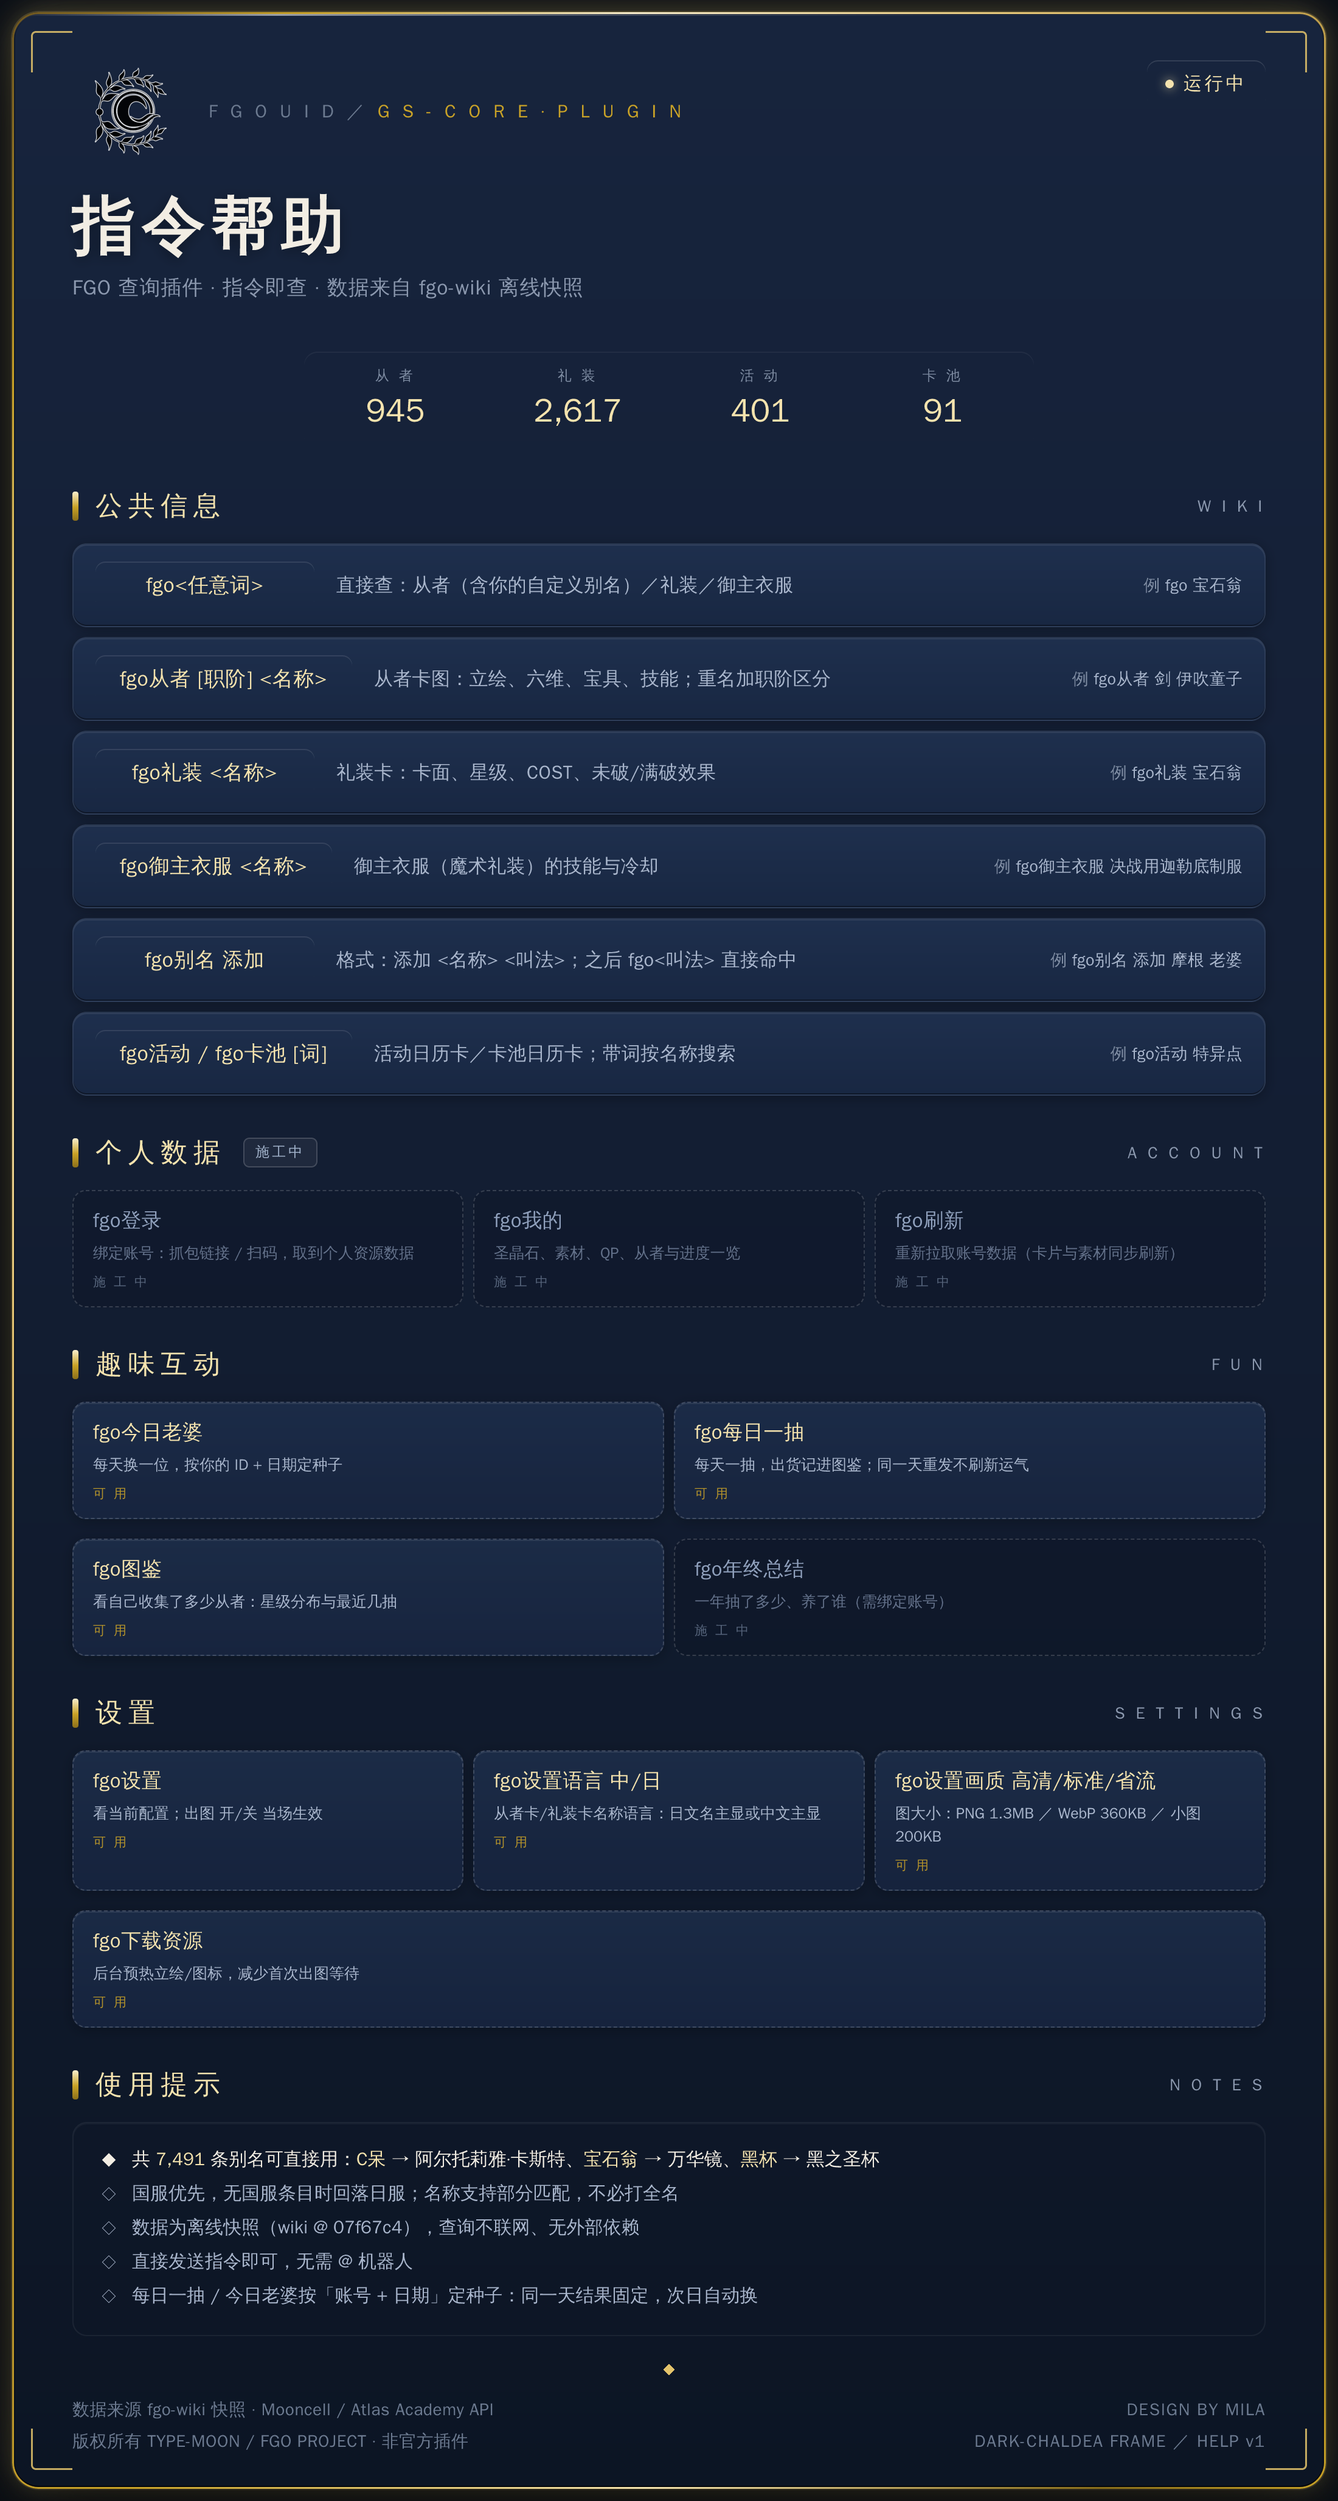
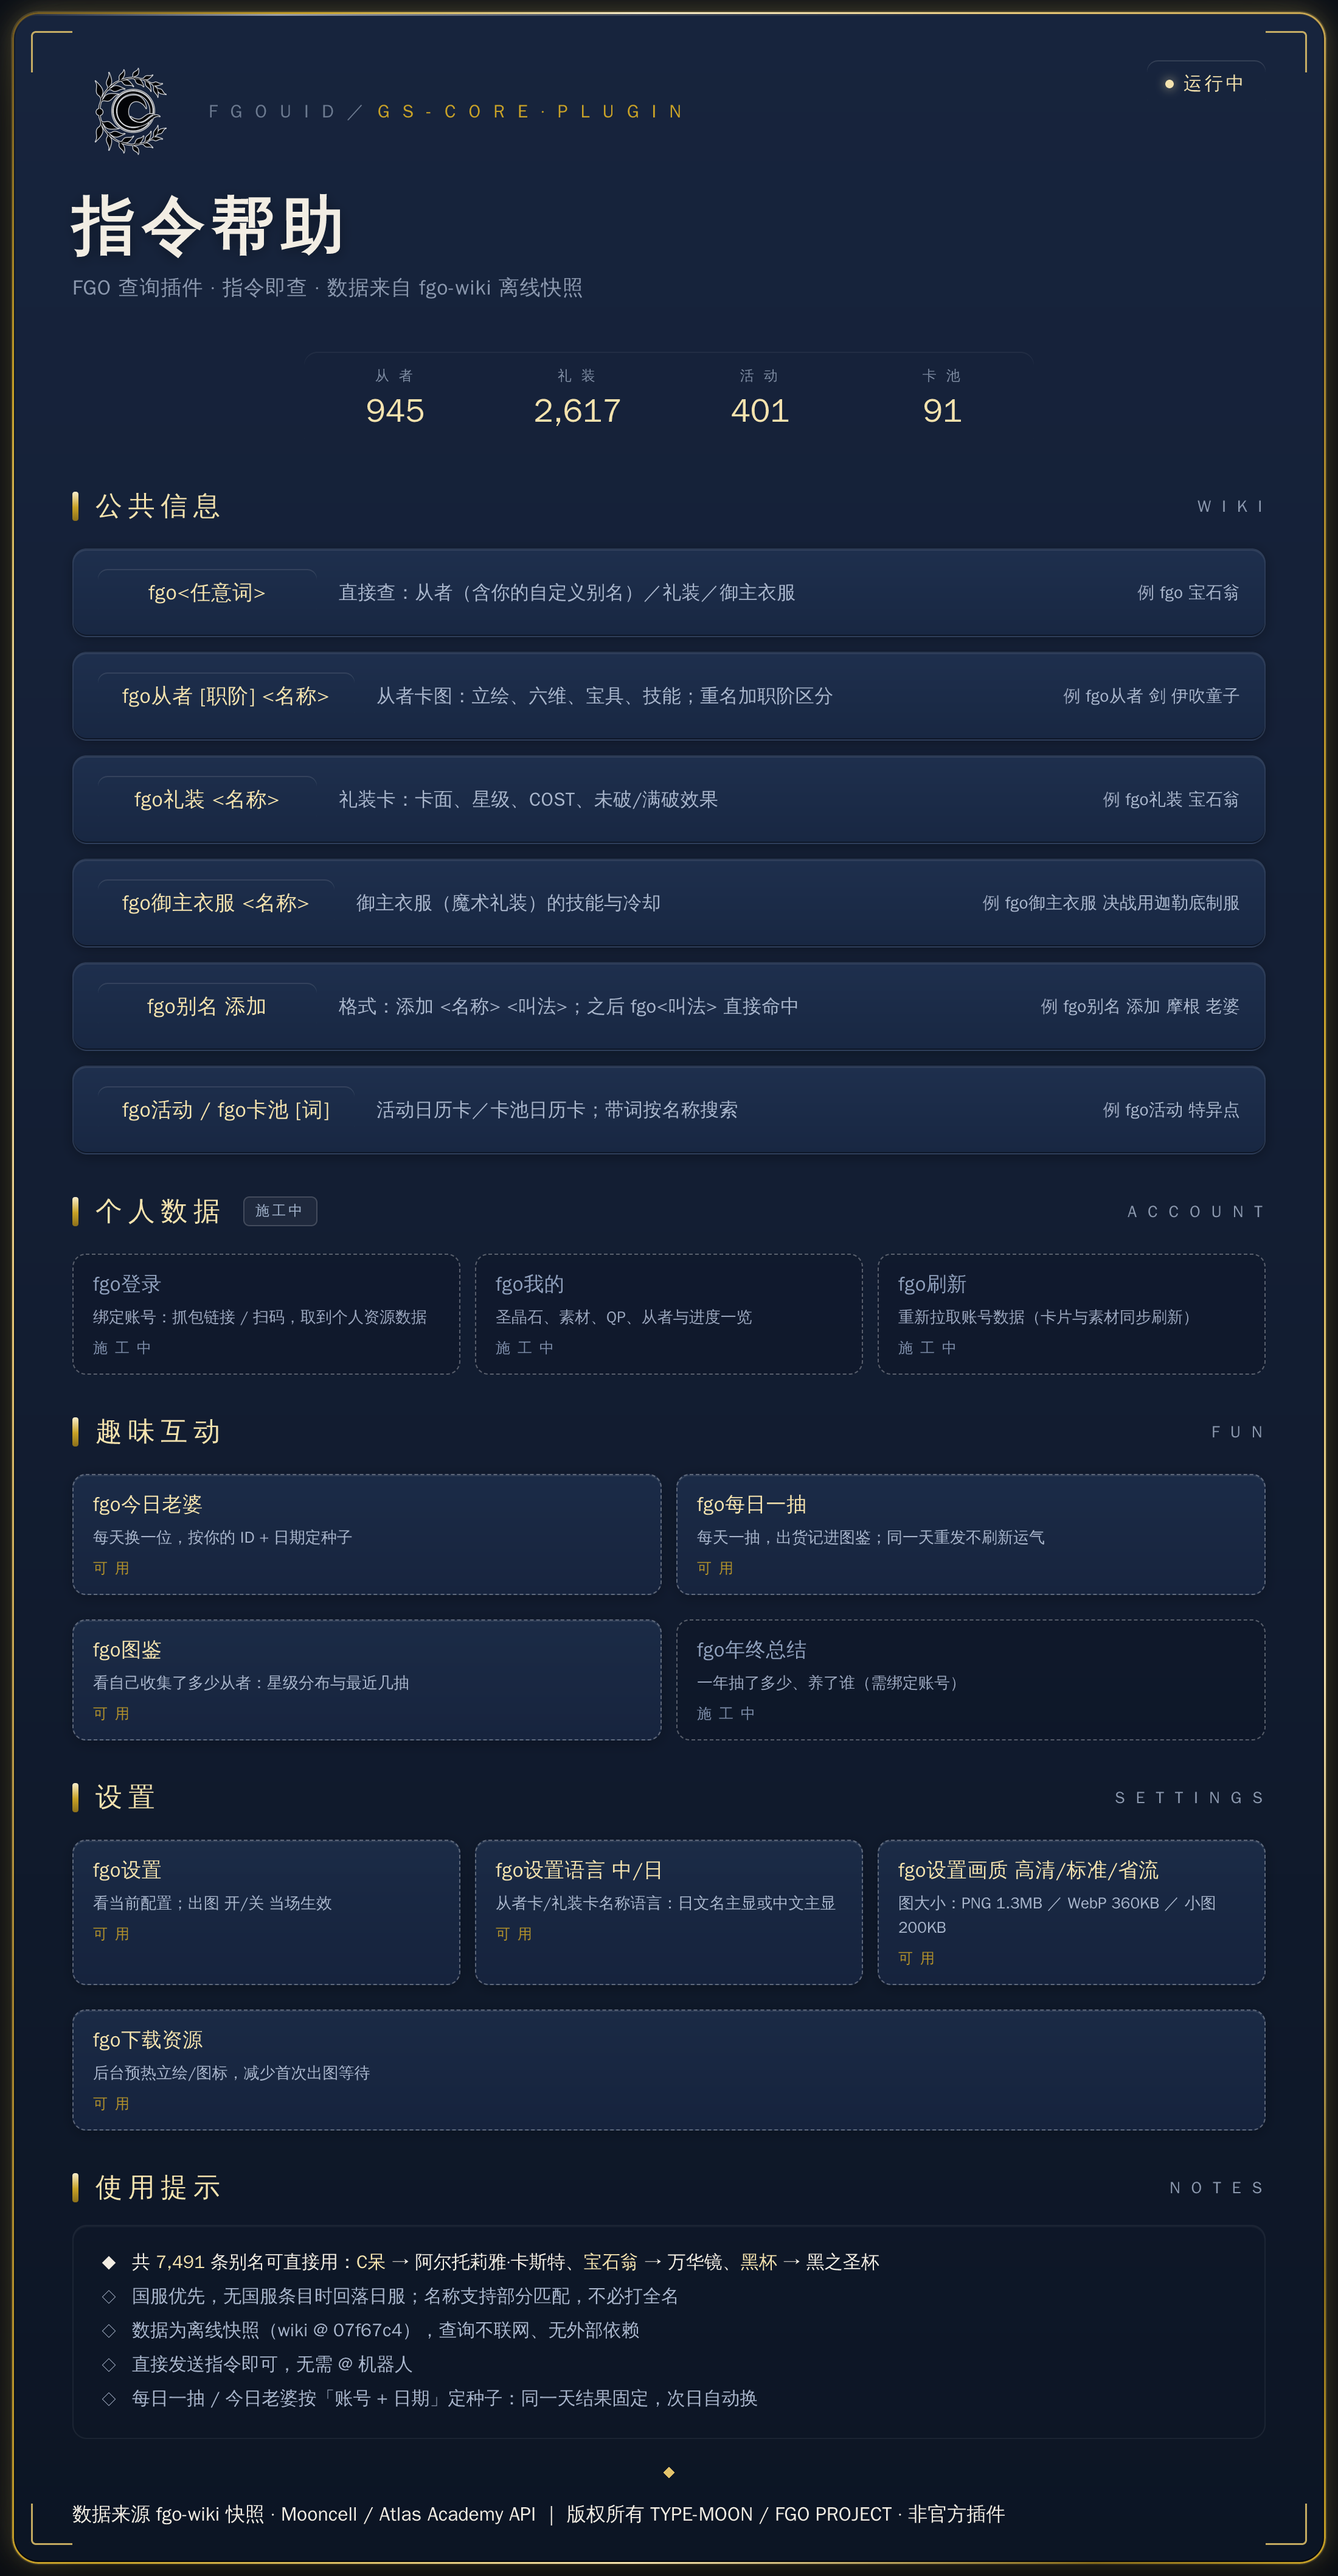
style(card): 按视觉评审意见落地七项调整
- 金色分级：外框光晕双层→单层 0.10、四角 opacity .85→.45、分隔线 0.60/0.78→0.32/0.42
- 技能数值格：底色/字色减重（#C6BDA9→#B8C4DA）、金线只留 Lv.1/6/10 且压到 0.55、格距 4→6
- 技能说明：14.5→15px、色 #E6EAF2、与数值格间距 7→12px
- 灰字提亮放大：示例 13→14px #9AA6BD、卡片说明 12.5→13px、可用/施工中 10.5→12px
- 区块节奏：区块外距 24→40px、标题↔内容 14→20px、卡间距 8→12px
- 施工中卡：虚线 alpha .16→.30
- 页脚：帮助卡也统一成单行（去掉 DESIGN BY MILA）
- 复审（Claude Sonnet 5.5）：层级 7→8、留白 6→7、色彩 7→8、品牌 8→8，结论「比上一版好」
- wiki 模板同步

diff --git a/card/templates/servant_card_data.html b/card/templates/servant_card_data.html
@@ -13,8 +13,8 @@
                #A8862F 47%,#C9A227 63%,#F5E3AE 79%,#8A6E1A 93%,#C9A227 100%);
   --metal-foil:linear-gradient(180deg,#F8EDCB 0%,#E8C877 22%,#C9A227 42%,#8A6E1A 52%,
                #C9A227 64%,#F5E3AE 86%,#F8EDCB 100%);
-  --rule:linear-gradient(90deg,rgba(201,162,39,0) 0%,var(--g60) 10%,
-         rgba(245,227,174,.78) 50%,var(--g60) 90%,rgba(201,162,39,0) 100%);
+  --rule:linear-gradient(90deg,rgba(201,162,39,0) 0%,var(--g32) 10%,
+         rgba(245,227,174,.42) 50%,var(--g32) 90%,rgba(201,162,39,0) 100%);
 
   /* 金色透明度阶梯：收敛散落的 rgba(201,162,39,.xx) */
   --g06:var(--g06); --g10:var(--g10); --g12:var(--g12);
@@ -31,8 +31,8 @@ body{padding:40px;font-family:"WenQuanYi Zen Hei","WenQuanYi Micro Hei",sans-ser
      -webkit-font-smoothing:antialiased;color:var(--text-1);background:#080d15}
 
 .card{width:1080px;min-height:1350px;padding:1.5px;border-radius:22px;background:var(--metal-ring);
-  box-shadow:0 0 0 1px rgba(227,195,107,.22), 0 0 18px rgba(227,195,107,.30),
-             0 0 56px rgba(227,195,107,.16), 0 26px 70px rgba(0,0,0,.66)}
+  box-shadow:0 0 0 1px rgba(227,195,107,.16), 0 0 32px rgba(227,195,107,.10),
+             0 26px 70px rgba(0,0,0,.66)}
 /* 稀有度：≥4 金 / 3 银 / ≤2 铜（底色不变，只换金属环与外发光） */
 .card.r3{background:linear-gradient(128deg,#5A6570 0%,#AEB8C2 9%,#F2F6FA 19%,#C7D0D9 31%,
   #7C8792 47%,#AEB8C2 63%,#EAF0F5 79%,#606B76 93%,#AEB8C2 100%);
@@ -53,7 +53,7 @@ body{padding:40px;font-family:"WenQuanYi Zen Hei","WenQuanYi Micro Hei",sans-ser
              rgba(255,255,255,.14) 48%,rgba(255,255,255,0) 74%)}
 .sheen{position:absolute;left:-10%;right:-10%;top:-14%;height:44%;pointer-events:none;
   background:radial-gradient(112% 70% at 26% -8%,rgba(201,162,39,.15),rgba(201,162,39,0) 62%)}
-.corner{position:absolute;width:34px;height:34px;z-index:6;pointer-events:none;opacity:.85}
+.corner{position:absolute;width:34px;height:34px;z-index:6;pointer-events:none;opacity:.45}
 .corner.tl{left:14px;top:14px;border-left:1.5px solid var(--gold);border-top:1.5px solid var(--gold);border-radius:4px 0 0 0}
 .corner.tr{right:14px;top:14px;border-right:1.5px solid var(--gold);border-top:1.5px solid var(--gold);border-radius:0 4px 0 0}
 .corner.bl{left:14px;bottom:14px;border-left:1.5px solid var(--gold);border-bottom:1.5px solid var(--gold);border-radius:0 0 0 4px}
@@ -209,21 +209,21 @@ body{padding:40px;font-family:"WenQuanYi Zen Hei","WenQuanYi Micro Hei",sans-ser
 .sk-h .cd{font-size:14px;color:var(--text-3);letter-spacing:.03em}
 .sk-h .cd b{color:var(--gold-mid);font-weight:400;font-size:15.5px}
 .sk-h .sp{flex:1}
-.sk-h .lg{font-size:13px;color:#7C8AA0;letter-spacing:.04em}
+.sk-h .lg{font-size:13.5px;color:#93A2BA;letter-spacing:.04em}
 .sk-h .lg b{color:var(--gold-mid);font-weight:400}
-.sk-e{margin-top:7px}
-.sk-d{display:flex;align-items:baseline;gap:var(--sp-1);font-size:14.5px;color:var(--text-2)}
+.sk-e{margin-top:12px}
+.sk-d{display:flex;align-items:baseline;gap:var(--sp-1);font-size:15px;color:#E6EAF2}
 .sk-d .tag{font-size:13px;color:var(--gold-mid);letter-spacing:.06em}
-.v10{display:grid;grid-template-columns:repeat(10,minmax(0,1fr));gap:4px;margin-top:5px}
-.v10 .vb{position:relative;height:31px;display:flex;align-items:center;justify-content:center;
-  padding:0 3px;border-radius:5px;background:var(--ink-50);border:1px solid rgba(255,255,255,.07);
-  color:#C6BDA9;font-size:13px;letter-spacing:-.02em;font-variant-numeric:tabular-nums;
-  box-shadow:inset 0 1px 0 rgba(255,255,255,.05)}
-.v10 .vb.mid{background:var(--g10);border-color:var(--g48);color:#DCC78F;
-  box-shadow:inset 0 1px 0 rgba(255,255,255,.07), 0 0 8px var(--g10)}
-.v10 .vb .brk{position:absolute;left:22%;right:22%;bottom:0;height:2.5px;border-radius:2px;
-  background:var(--gold-mid);box-shadow:0 0 6px rgba(201,162,39,.5)}
-.v10 .vb.mid .brk{background:var(--gold-hi)}
+.v10{display:grid;grid-template-columns:repeat(10,minmax(0,1fr));gap:6px;margin-top:8px}
+.v10 .vb{position:relative;height:28px;display:flex;align-items:center;justify-content:center;
+  padding:0 3px;border-radius:5px;background:rgba(11,18,32,.34);border:1px solid rgba(255,255,255,.06);
+  color:#B8C4DA;font-size:12.5px;letter-spacing:-.02em;font-variant-numeric:tabular-nums;
+  box-shadow:inset 0 1px 0 rgba(255,255,255,.04)}
+.v10 .vb.mid{background:var(--g10);border-color:var(--g32);color:#DCC78F;
+  box-shadow:inset 0 1px 0 rgba(255,255,255,.06)}
+/* 金线只出现在 Lv.1/6/10（build.py 的 BREAK_LEVELS），并压暗一档，别抢过说明文字 */
+.v10 .vb .brk{position:absolute;left:30%;right:30%;bottom:0;height:2px;border-radius:2px;
+  background:rgba(227,195,107,.55)}
 .v1x{display:flex;align-items:center;gap:8px;margin-top:7px;font-size:14.5px;color:#6C7A90;letter-spacing:.04em}
 .v1x i{width:14px;height:1px;background:rgba(255,255,255,.16)}
 

diff --git a/templates/help_card.html b/templates/help_card.html
@@ -91,8 +91,8 @@ h1{font-size:52px;line-height:1.18;color:var(--text-1);margin-top:var(--sp-2);le
 .sec-h .n{font-size:13.5px;color:var(--text-3);letter-spacing:.18em}
 
 /* ---------- 指令行 ---------- */
-.cmds{position:relative;z-index:1;margin:var(--sp-2) var(--pad-x) 0;display:flex;flex-direction:column;gap:var(--sp-1)}
-.row{display:flex;align-items:center;gap:18px;padding:14px 18px;border-radius:12px;
+.cmds{position:relative;z-index:1;margin:20px var(--pad-x) 0;display:flex;flex-direction:column;gap:12px}
+.row{display:flex;align-items:center;gap:18px;padding:16px 20px;border-radius:12px;
   border:1px solid rgba(255,255,255,.07);
   background:linear-gradient(180deg,#1E2F4D,#182742);
   box-shadow:inset 0 1px 0 rgba(255,255,255,.08), inset 0 -1px 0 rgba(0,0,0,.40), 0 2px 10px rgba(0,0,0,.30)}
@@ -101,7 +101,7 @@ h1{font-size:52px;line-height:1.18;color:var(--text-1);margin-top:var(--sp-2);le
   background:var(--g12);border:1px solid var(--g48);
   box-shadow:inset 0 1px 0 rgba(255,255,255,.10)}
 .d{flex:1 1 auto;min-width:0;font-size:15.5px;line-height:1.58;color:var(--text-2);letter-spacing:.01em}
-.e{flex:0 0 218px;text-align:right;font-size:13.5px;color:#7E8CA2;letter-spacing:.01em;
+.e{flex:0 0 218px;text-align:right;font-size:14px;color:#9AA6BD;letter-spacing:.01em;
   white-space:nowrap;overflow:hidden;text-overflow:ellipsis}
 .e b{color:var(--text-2);font-weight:400}
 
@@ -140,18 +140,18 @@ h1{font-size:52px;line-height:1.18;color:var(--text-1);margin-top:var(--sp-2);le
 .wip{flex:0 0 auto;font-size:11.5px;letter-spacing:.18em;color:#9FB0C8;
   padding:3px 9px 4px;border-radius:5px;border:1px solid rgba(255,255,255,.16);
   background:rgba(255,255,255,.05)}
-.grid{display:flex;gap:var(--sp-1);margin:var(--sp-2) var(--pad-x) 0}
+.grid{display:flex;gap:12px;margin:20px var(--pad-x) 0}
 .gi{flex:1 1 0;min-width:0;padding:13px 16px 13px;border-radius:11px;
-  border:1px dashed rgba(255,255,255,.16);background:rgba(11,18,32,.30);
+  border:1px dashed rgba(255,255,255,.30);background:rgba(11,18,32,.30);
   display:flex;flex-direction:column;gap:6px}
 .gi.on{border:1px solid var(--g48);
   background:linear-gradient(180deg,rgba(30,47,77,.78),rgba(24,39,66,.78));
   box-shadow:inset 0 1px 0 rgba(255,255,255,.08), 0 2px 10px rgba(0,0,0,.25)}
 .gi .gk{font-size:16.5px;color:#8FA0BC;letter-spacing:.02em}
 .gi.on .gk{color:var(--gold-hi)}
-.gi .gd{font-size:12.5px;line-height:1.52;color:#63718A}
+.gi .gd{font-size:13px;line-height:1.52;color:#9AA6BD}
 .gi.on .gd{color:var(--text-2)}
-.gi .go{font-size:10.5px;letter-spacing:.16em;color:#55637A;margin-top:1px}
+.gi .go{font-size:12px;letter-spacing:.10em;color:#7C8CA8;margin-top:1px}
 .gi.on .go{color:rgba(201,162,39,.88)}
 </style></head><body>
 <div class="card"><div class="inner">
@@ -178,13 +178,6 @@ h1{font-size:52px;line-height:1.18;color:var(--text-1);margin-top:var(--sp-2);le
 {{BODY}}
 <div class="orn"><i></i><b></b><i></i></div>
 <footer class="foot">
-  <div class="l">
-    <div class="l1">{{FOOT_L1}}</div>
-    <div class="l2">{{FOOT_L2}}</div>
-  </div>
-  <div class="r">
-    <div>{{FOOT_R1}}</div>
-    <div>{{FOOT_R2}}</div>
-  </div>
+  <div class="l1">{{FOOT_L1}}　｜　{{FOOT_L2}}</div>
 </footer>
 </div></div></body></html>

diff --git a/templates/ce_card.html b/templates/ce_card.html
@@ -8,8 +8,8 @@
   --gold-hi:#F5E3AE; --gold:#E3C36B; --gold-mid:#C9A227; --gold-dark:#A8862F; --gold-deep:#8A6E1A;
   --metal-ring:linear-gradient(128deg,#6E5620 0%,#C9A227 9%,#F8EDCB 19%,#E8C877 31%,
                #A8862F 47%,#C9A227 63%,#F5E3AE 79%,#8A6E1A 93%,#C9A227 100%);
-  --rule:linear-gradient(90deg,rgba(201,162,39,0) 0%,var(--g60) 10%,
-         rgba(245,227,174,.78) 50%,var(--g60) 90%,rgba(201,162,39,0) 100%);
+  --rule:linear-gradient(90deg,rgba(201,162,39,0) 0%,var(--g32) 10%,
+         rgba(245,227,174,.42) 50%,var(--g32) 90%,rgba(201,162,39,0) 100%);
 
   /* 金色透明度阶梯：收敛散落的 rgba(201,162,39,.xx) */
   --g06:var(--g06); --g10:var(--g10); --g12:var(--g12);
@@ -26,8 +26,8 @@ body{padding:40px;font-family:"WenQuanYi Zen Hei","WenQuanYi Micro Hei",sans-ser
      -webkit-font-smoothing:antialiased;color:var(--text-1);background:#080d15}
 
 .card{width:1080px;padding:1.5px;border-radius:22px;background:var(--metal-ring);
-  box-shadow:0 0 0 1px rgba(227,195,107,.22), 0 0 18px rgba(227,195,107,.30),
-             0 0 56px rgba(227,195,107,.16), 0 26px 70px rgba(0,0,0,.66)}
+  box-shadow:0 0 0 1px rgba(227,195,107,.16), 0 0 32px rgba(227,195,107,.10),
+             0 26px 70px rgba(0,0,0,.66)}
 .inner{position:relative;width:100%;border-radius:20.5px;overflow:hidden;
   background:linear-gradient(180deg,var(--bg-top) 0%,var(--bg-base) 46%,var(--bg-bottom) 100%);
   box-shadow:inset 0 0 0 1px rgba(0,0,0,.30), inset 0 1px 0 rgba(255,255,255,.08),
@@ -38,7 +38,7 @@ body{padding:40px;font-family:"WenQuanYi Zen Hei","WenQuanYi Micro Hei",sans-ser
              rgba(255,255,255,.14) 48%,rgba(255,255,255,0) 74%)}
 .sheen{position:absolute;left:-10%;right:-10%;top:-14%;height:40%;pointer-events:none;
   background:radial-gradient(112% 70% at 26% -8%,rgba(201,162,39,.15),rgba(201,162,39,0) 62%)}
-.corner{position:absolute;width:34px;height:34px;z-index:6;pointer-events:none;opacity:.85}
+.corner{position:absolute;width:34px;height:34px;z-index:6;pointer-events:none;opacity:.45}
 .corner.tl{left:14px;top:14px;border-left:1.5px solid var(--gold);border-top:1.5px solid var(--gold);border-radius:4px 0 0 0}
 .corner.tr{right:14px;top:14px;border-right:1.5px solid var(--gold);border-top:1.5px solid var(--gold);border-radius:0 4px 0 0}
 .corner.bl{left:14px;bottom:14px;border-left:1.5px solid var(--gold);border-bottom:1.5px solid var(--gold);border-radius:0 0 0 4px}

diff --git a/templates/list_card.html b/templates/list_card.html
@@ -8,8 +8,8 @@
   --gold-hi:#F5E3AE; --gold:#E3C36B; --gold-mid:#C9A227; --gold-dark:#A8862F; --gold-deep:#8A6E1A;
   --metal-ring:linear-gradient(128deg,#6E5620 0%,#C9A227 9%,#F8EDCB 19%,#E8C877 31%,
                #A8862F 47%,#C9A227 63%,#F5E3AE 79%,#8A6E1A 93%,#C9A227 100%);
-  --rule:linear-gradient(90deg,rgba(201,162,39,0) 0%,var(--g60) 10%,
-         rgba(245,227,174,.78) 50%,var(--g60) 90%,rgba(201,162,39,0) 100%);
+  --rule:linear-gradient(90deg,rgba(201,162,39,0) 0%,var(--g32) 10%,
+         rgba(245,227,174,.42) 50%,var(--g32) 90%,rgba(201,162,39,0) 100%);
 
   /* 金色透明度阶梯：收敛散落的 rgba(201,162,39,.xx) */
   --g06:var(--g06); --g10:var(--g10); --g12:var(--g12);
@@ -26,8 +26,8 @@ body{padding:40px;font-family:"WenQuanYi Zen Hei","WenQuanYi Micro Hei",sans-ser
      -webkit-font-smoothing:antialiased;color:var(--text-1);background:#080d15}
 
 .card{width:1080px;padding:1.5px;border-radius:22px;background:var(--metal-ring);
-  box-shadow:0 0 0 1px rgba(227,195,107,.22), 0 0 18px rgba(227,195,107,.30),
-             0 0 56px rgba(227,195,107,.16), 0 26px 70px rgba(0,0,0,.66)}
+  box-shadow:0 0 0 1px rgba(227,195,107,.16), 0 0 32px rgba(227,195,107,.10),
+             0 26px 70px rgba(0,0,0,.66)}
 .inner{position:relative;width:100%;border-radius:20.5px;overflow:hidden;
   background:linear-gradient(180deg,var(--bg-top) 0%,var(--bg-base) 46%,var(--bg-bottom) 100%);
   box-shadow:inset 0 0 0 1px rgba(0,0,0,.30), inset 0 1px 0 rgba(255,255,255,.08),
@@ -38,7 +38,7 @@ body{padding:40px;font-family:"WenQuanYi Zen Hei","WenQuanYi Micro Hei",sans-ser
              rgba(255,255,255,.14) 48%,rgba(255,255,255,0) 74%)}
 .sheen{position:absolute;left:-10%;right:-10%;top:-14%;height:40%;pointer-events:none;
   background:radial-gradient(112% 70% at 26% -8%,rgba(201,162,39,.15),rgba(201,162,39,0) 62%)}
-.corner{position:absolute;width:34px;height:34px;z-index:6;pointer-events:none;opacity:.85}
+.corner{position:absolute;width:34px;height:34px;z-index:6;pointer-events:none;opacity:.45}
 .corner.tl{left:14px;top:14px;border-left:1.5px solid var(--gold);border-top:1.5px solid var(--gold);border-radius:4px 0 0 0}
 .corner.tr{right:14px;top:14px;border-right:1.5px solid var(--gold);border-top:1.5px solid var(--gold);border-radius:0 4px 0 0}
 .corner.bl{left:14px;bottom:14px;border-left:1.5px solid var(--gold);border-bottom:1.5px solid var(--gold);border-radius:0 0 0 4px}
